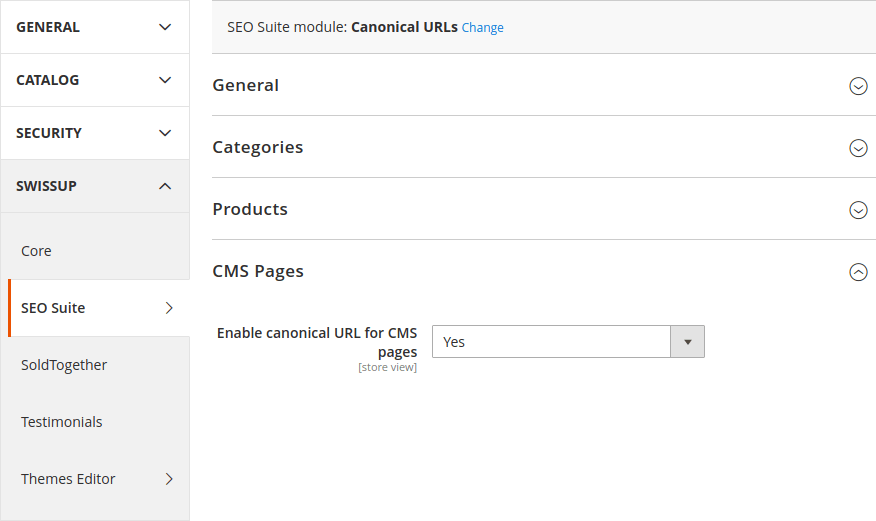
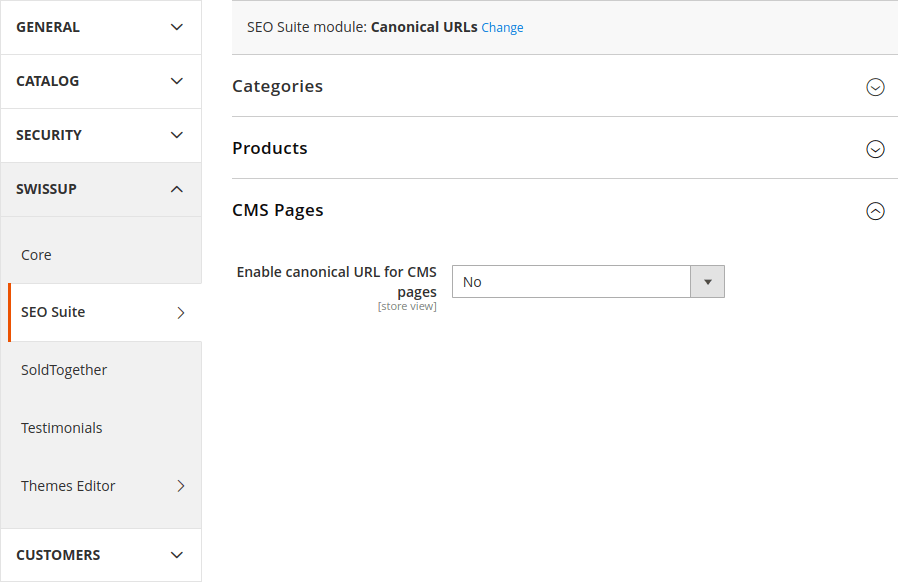
Seo canonical update.

diff --git a/m2/extensions/seo-canonical/configuration.md b/m2/extensions/seo-canonical/configuration.md
@@ -12,14 +12,8 @@ category: Canonical URL
 * TOC
 {:toc}
 
-You can configure SEO enhancements for paginated content at
+You can configure canonical URLs at
 _Stores → Configuration → Swissup → SEO Suite → Canonical URLs_ page.
-
-### General
-
-![General setting](/images/m2/seo-canonicals/general.png)
-
-Here you can change how canonical URL domain is build.
 
 ### Categories
 
@@ -27,11 +21,17 @@ Here you can change how canonical URL domain is build.
 
 Add canonical URL for category pages with respective option. Please remember enabled [**Pagination module**](/m2/extensions/seo-pager/) **can overpower** this setting.
 
+You can also force canonical url point to different store view - *"Use Store View for canonical"*.
+
 ### Products
 
 ![Products setting](/images/m2/seo-canonicals/products.png)
 
 You can enable or disable canonical URL on product page.
+
+Force canonical url point to different store view with option *"Use Store View for canonical"* if needed.
+
+Sometimes store owners need to specify canonical urls for products manually. Store owner has to create text product attribute and assign it to nessecery attribute groups. Then select this attribute in option *"Use product attribute for canonical"*.
 
 Other fun option is *"Use parent product for canonical"*. For product that is a part of configurable, bundle or grouped product, this option forces it to use parent product url as canonical. This feature consolidates Google indexes and can be usefull for stores with huge number of products.
 
